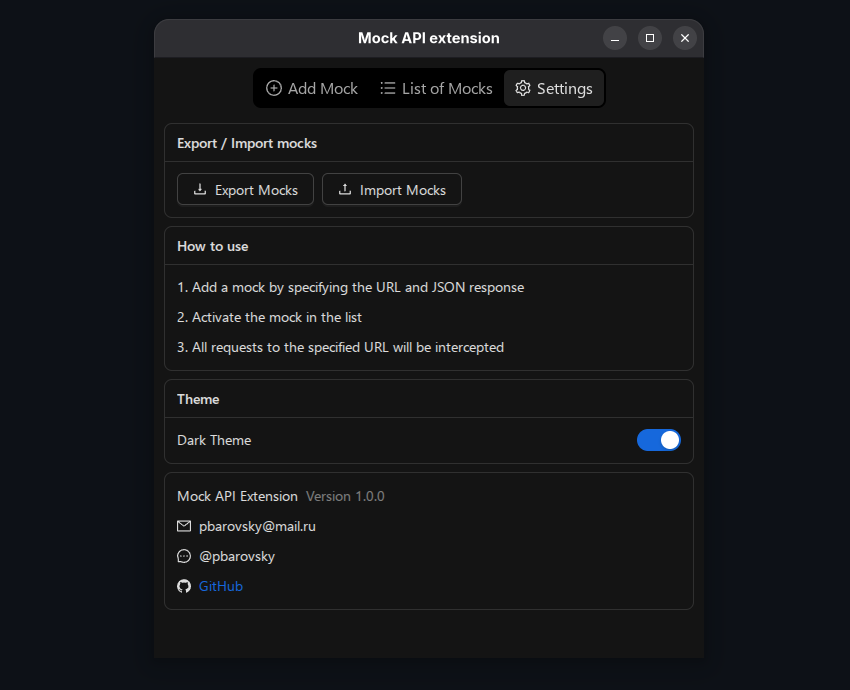
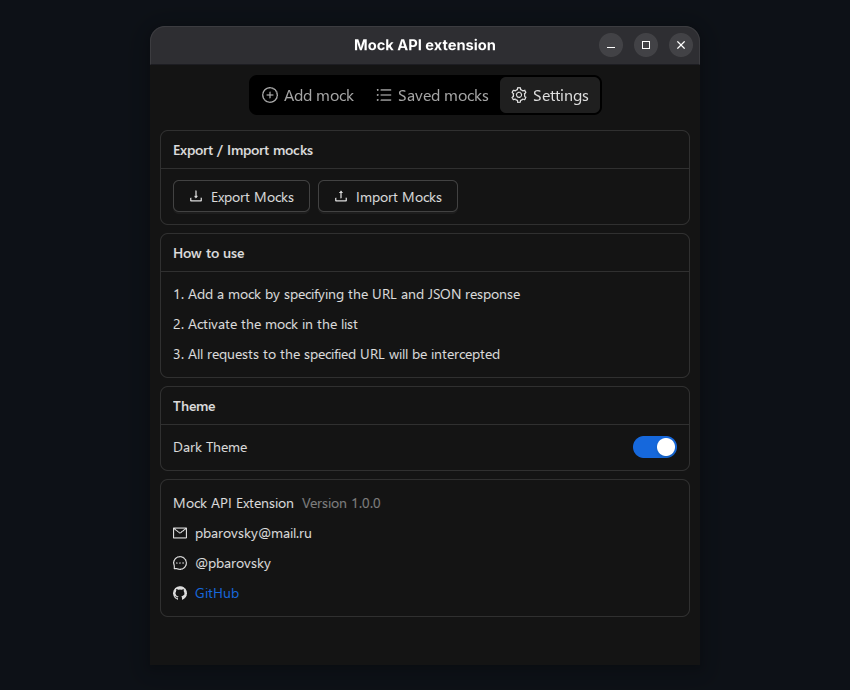
fix readme and saved mocks page

diff --git a/src/popup/shared/ui/Navigation/Navigation.tsx b/src/popup/shared/ui/Navigation/Navigation.tsx
@@ -14,16 +14,16 @@ interface Props {
 
 const options = [
   {
-    label: "Add Mock",
+    label: "Add mock",
     value: "add-mock",
     icon: <PlusCircleOutlined />,
     path: "/",
   },
   {
-    label: "List of Mocks",
-    value: "list",
+    label: "Saved mocks",
+    value: "saved",
     icon: <UnorderedListOutlined />,
-    path: "/list",
+    path: "/saved",
   },
   {
     label: "Settings",

diff --git a/src/popup/pages/SavedMocks/SavedMocks.tsx b/src/popup/pages/SavedMocks/SavedMocks.tsx
@@ -3,7 +3,7 @@ import { SavedMocksWidget } from "@widgets/SavedMocks";
 
 export const Page = () => {
   return (
-    <PageLayout activeNav="list">
+    <PageLayout activeNav="saved">
       <SavedMocksWidget />
     </PageLayout>
   );

diff --git a/src/popup/widgets/PageLayout/ui/PageLayout.tsx b/src/popup/widgets/PageLayout/ui/PageLayout.tsx
@@ -16,7 +16,7 @@ export const PageLayout: FC<Props> = ({ children }) => {
 
   const navMapping: Record<string, NavType> = {
     "/": "add-mock",
-    "/list": "list",
+    "/saved": "saved",
     "/settings": "settings",
   };
 

diff --git a/src/popup/shared/lib/types.ts b/src/popup/shared/lib/types.ts
@@ -1,4 +1,4 @@
-export type NavType = "add-mock" | "list" | "settings";
+export type NavType = "add-mock" | "saved" | "settings";
 
 export interface Theme {
   isDarkMode: boolean;

diff --git a/src/popup/app/providers/Router/Provider.tsx b/src/popup/app/providers/Router/Provider.tsx
@@ -13,7 +13,7 @@ const router = createMemoryRouter([
     element: <AddMockPage />,
   },
   {
-    path: "/list",
+    path: "/saved",
     element: <SavedMocksPage />,
   },
   {

diff --git a/README.md b/README.md
@@ -93,13 +93,13 @@ yarn build
 </p>
 
 <p align="center">
-  <img src="./images/2.png" alt="Список моков (список)"/>
-  <br>Saved mocks (list variant)
+  <img src="./images/2.png" alt="Список моков (table)"/>
+  <br>Saved mocks (table variant)
 </p>
 
 <p align="center">
-  <img src="./images/3.png" alt="Список моков (таблица)"/>
-  <br>Saved mocks (table variant)
+  <img src="./images/3.png" alt="Список моков (list)"/>
+  <br>Saved mocks (list variant)
 </p>
 
 <p align="center">
